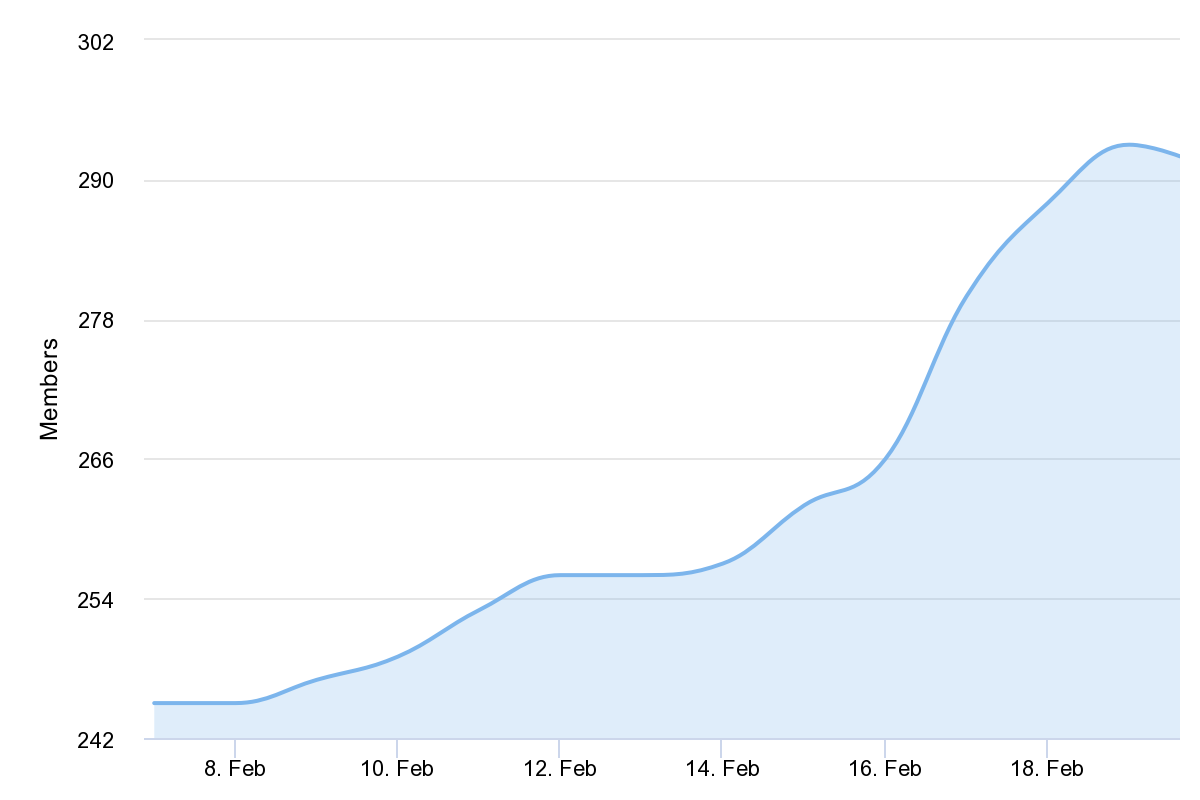
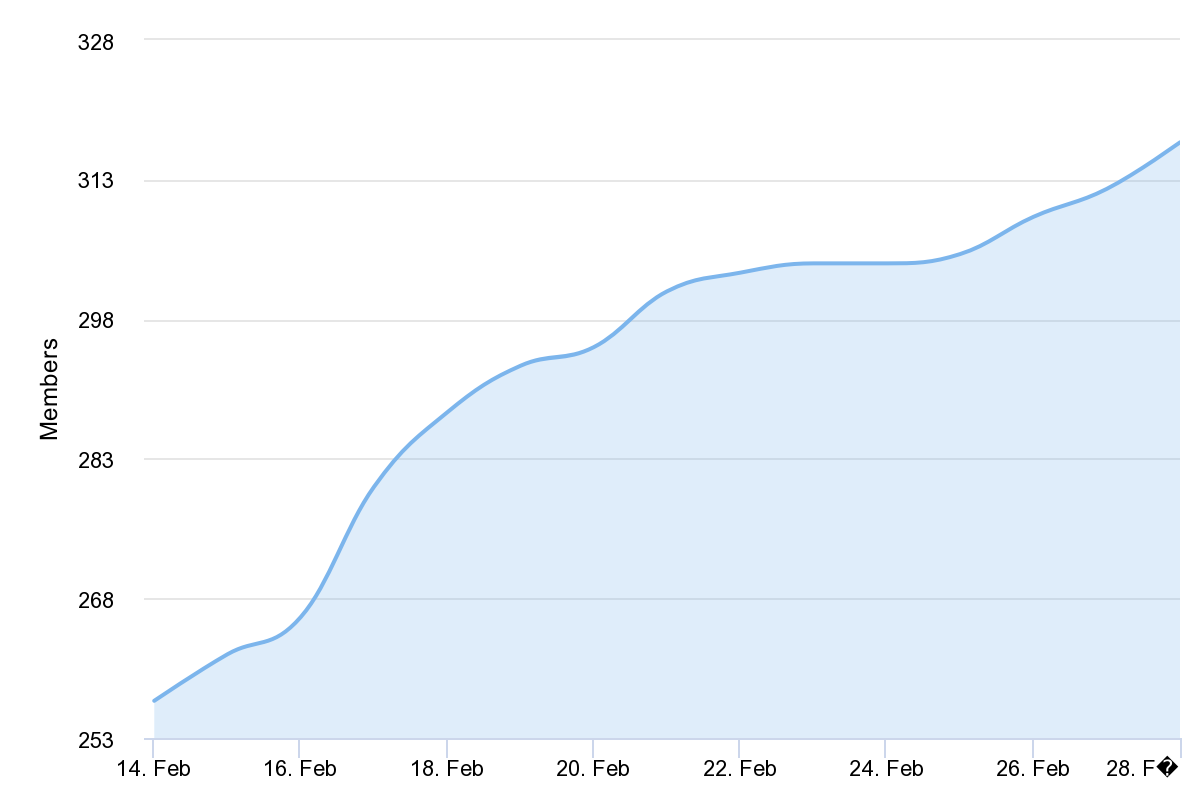
Updated discord server stats

diff --git a/README.md b/README.md
@@ -70,7 +70,7 @@ We have our own [An Anime Game](https://discord.gg/ck37X6UWBp) discord server wh
 
 This is our current usage statistics. You can find older ones [here](repository/pages/STATISTICS.md)
 
-### Our discord server — 292 member
+### Our discord server — 320 member
 
 <img src="repository/pics/stats/discord.png">
 
